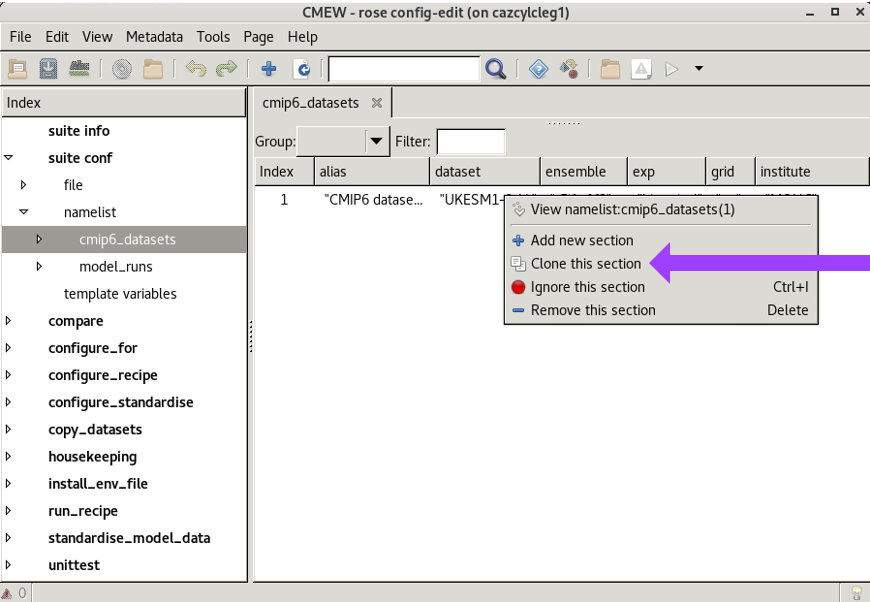
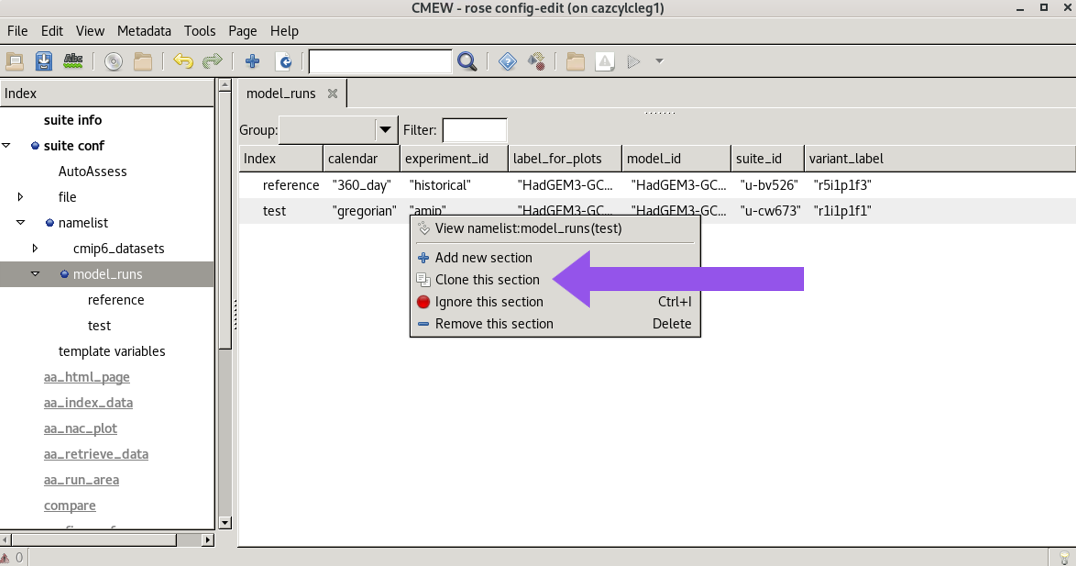
Documentation

Changed region(s): [[0.0, 0.0, 1.0, 1.0], [0.6207, 0.1799, 0.6517, 0.2099]]

diff --git a/doc/source/user_guide/configuring_datasets.rst b/doc/source/user_guide/configuring_datasets.rst
@@ -1,0 +1,85 @@
+.. (C) Crown Copyright 2026, Met Office.
+.. The LICENSE.md file contains full licensing details.
+
+Configuring Datasets in CMEW
+============================
+
+.. include:: ../common.txt
+
+
+Adding datasets
+---------------
+
+The easiest way to add datasets to |CMEW| is to clone an existing dataset in the Rose GUI
+and then edit the details. To do this:
+
+* Navigate to the CMEW directory, e.g.::
+
+    cd CMEW/CMEW
+
+
+* Open the Rose GUI::
+
+    rose edit
+
+
+* In the Rose GUI, click the triangle to the left of "suite conf" to expose a submenu.
+
+* Click the triangle to the left of "namelist" to expand the namelist sections.
+
+* Select the type of dataset you wish to add, e.g. "model_runs".
+
+* Right-click an existing entry and select "Clone this section" from the pop-up menu.
+
+.. image:: images/clone_button.png
+   :alt: An image of the Rose GUI showing the "suite conf",
+         with the "namelist" section expanded,
+         the model_runs section of the namelist selected,
+         and a pop-up menu over the second entry.
+   :width: 800px
+
+* Overwrite the details with those of the new dataset to be added.
+
+
+Choosing the reference dataset
+------------------------------
+
+AutoAssess metrics expect a reference and an evaluation run.
+|CMEW| identifies these by the names of the model run sections in the ``rose-suite.conf`` file;
+the reference run must be named **reference** and the evaluation run named **test**.
+Any additional runs will be ignored by AutoAssess but will be passed to the ESMValTool recipes.
+These runs may be named as any other string.
+If the clone button is used, the default is "1", "2" and so on.
+
+Once a new dataset has been added, it may be named as the reference (or evaluation) run by
+
+* Navigating to the "model_runs" area of the namelists.
+
+* Right-clicking the entry to be amended (renamed).
+
+* Clicking the "Rename a section" button.
+
+
+There is currently no way to select a CMIP dataset as the reference (or evaluation) run
+so these sections may be named in any way with no effects.
+
+.. image:: images/rename_section.png
+   :alt: An image of the Rose GUI showing a pop-up menu over a model_runs entry named "1",
+         with an arrow pointing to the option "Rename a section".
+   :width: 600px
+
+
+These changes may also be made directly to the ``rose-suite.conf`` file
+rather than using the Rose GUI.
+
+.. image:: images/rose_suite_model_sections.png
+   :alt: An image of the ``rose-suite.conf`` file in a text editor
+         with an arrow pointing to the section header "namelist:model_runs(reference)".
+   :width: 300px
+
+
+.. warning::
+   Currently, the recipe "Radiation Budget" will not allow two datasets
+   (such as both a CMIP6 dataset and a model development run)
+   that share a common model ID (such as "HadGEM3-GC31-LL")
+   to be run in the same workflow.

diff --git a/doc/source/user_guide/index.rst b/doc/source/user_guide/index.rst
@@ -11,5 +11,5 @@ User Guide
    Prerequisites <prerequisites_metoffice>
    quick_start
    workflow
-   Adding datasets <adding_datasets>
+   Configuring datasets <configuring_datasets>
    Reusing raw data  <reusing_raw_data>